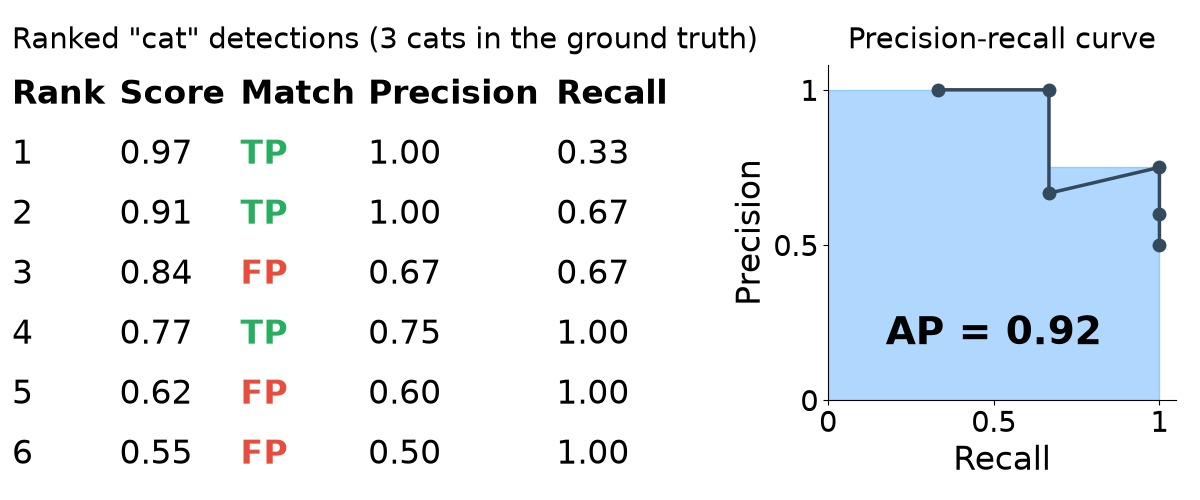
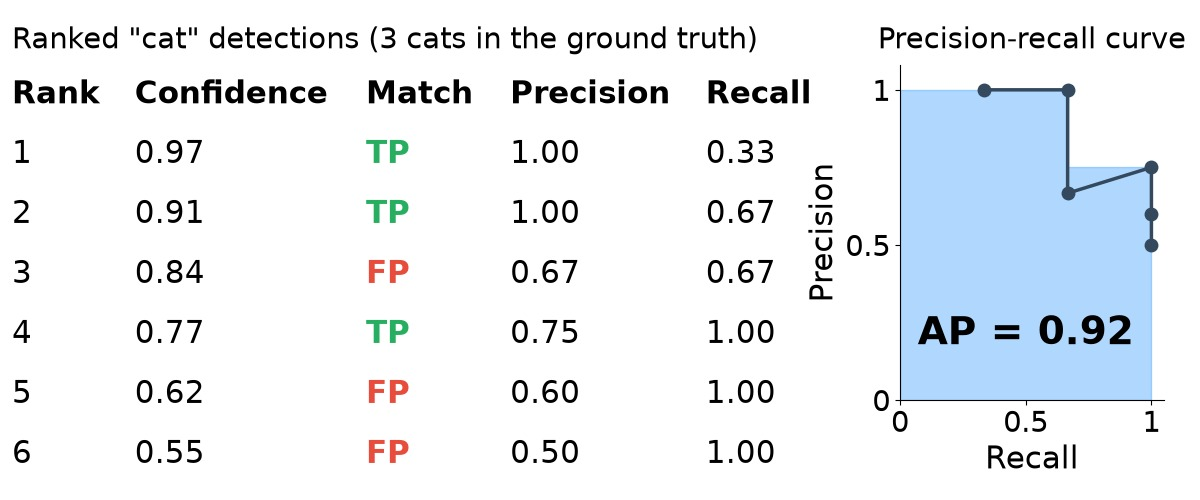
Clarify IoU roles, RetinaNet and DETR slides, and mAP averaging
- Explain why RetinaNet improves on SSD and YOLO for objects of different sizes
- Clarify IoU in training (anchor vs ground truth, threshold on loss terms)
- and in evaluation (predicted vs ground truth box)
- Say that mAP averages the AP of each class over all the classes
- Use confidence wording for NMS, YOLO and the AP table
- Mention that transformers and encoder/decoder are covered later for DETR
- Drop the transfer learning slide and the Mask R-CNN and DETR bullets of the detection training objective

diff --git a/slides/figures/plot_ap_example.py b/slides/figures/plot_ap_example.py
@@ -30,7 +30,7 @@ FALSE_POSITIVE_COLOR = "#e74c3c"
 CURVE_COLOR = "#34495e"
 AREA_COLOR = "#1e90ff"
 TITLE_FONT = 21
-TEXT_FONT = 24
+TEXT_FONT = 22
 TICK_FONT = 21
 
 # (confidence, is a true positive) of the detections of the class "cat", over a
@@ -87,7 +87,7 @@ def plot_ap(detections, n_ground_truth, output_path):
     ranked = sorted(detections, reverse=True)
 
     fig = plt.figure(figsize=(12, 5.0))
-    ax_table = fig.add_axes([0.01, 0.03, 0.56, 0.84])
+    ax_table = fig.add_axes([0.01, 0.03, 0.66, 0.84])
     ax_table.axis("off")
     ax_table.set_title(
         f"Ranked \"cat\" detections ({n_ground_truth} cats in the ground truth)",
@@ -95,8 +95,8 @@ def plot_ap(detections, n_ground_truth, output_path):
         loc="left",
         pad=12,
     )
-    columns = [0.0, 0.16, 0.34, 0.53, 0.81]
-    headers = ["Rank", "Score", "Match", "Precision", "Recall"]
+    columns = [0.0, 0.155, 0.447, 0.629, 0.876]
+    headers = ["Rank", "Confidence", "Match", "Precision", "Recall"]
     n_rows = len(ranked) + 1
     for x, header in zip(columns, headers):
         ax_table.text(x, 1 - 0.5 / n_rows, header, fontsize=TEXT_FONT, fontweight="bold", va="center")
@@ -110,7 +110,7 @@ def plot_ap(detections, n_ground_truth, output_path):
         ax_table.text(columns[3], y, f"{p:.2f}", fontsize=TEXT_FONT, va="center")
         ax_table.text(columns[4], y, f"{r:.2f}", fontsize=TEXT_FONT, va="center")
 
-    ax = fig.add_axes([0.69, 0.2, 0.29, 0.67])
+    ax = fig.add_axes([0.75, 0.2, 0.22, 0.67])
     steps_recall = np.concatenate([[0.0], recall])
     steps_envelope = np.concatenate([[envelope[0]], envelope])
     ax.fill_between(steps_recall, steps_envelope, step="pre", color=AREA_COLOR, alpha=0.35)

diff --git a/slides/convnets_detection/slides.md b/slides/convnets_detection/slides.md
@@ -14,7 +14,7 @@ Adapted from [Charles Ollion and Olivier Grisel](https://github.com/m2dsupsdlcla
 ---
 # Recap: Semantic Segmentation
 
-- Fully convolutional networks: one class score per pixel, for any image size
+- Fully convolutional networks: one class probability per pixel, for any image size
 - Transposed convolutions and skip connections (U-Net): recover fine spatial resolution
 - Strided operations downscale the feature maps (typically $32\times$): small objects get few cells
 
@@ -140,7 +140,7 @@ $C$ classes, $4$ output dimensions ($1$ box)
 
 --
 
-**Predict exactly $N$ objects:** predict $(N \times 4)$ coordinates and $(N \times K)$ class scores
+**Predict exactly $N$ objects:** predict $(N \times 4)$ coordinates and $(N \times K)$ class probabilities
 
 ---
 # Training Objective
@@ -195,7 +195,7 @@ Redmon, Joseph, et al. "You only look once: Unified, real-time object detection.
 --
 
 For each cell of the $S \times S$ predict:
-- $B$ **boxes** and **confidence scores** $\text{conf}$ ($5 \times B$ values) + **class probabilities** $p(c)$ for each of the $C$ classes
+- $B$ **boxes** and **box confidences** $\text{conf}$ ($5 \times B$ values) + **class probabilities** $p(c)$ for each of the $C$ classes
 
 ---
 # YOLO
@@ -204,7 +204,7 @@ For each cell of the $S \times S$ predict:
 ]
 
 For each cell of the $S \times S$ predict:
-- $B$ **boxes** and **confidence scores** $\text{conf}$ ($5 \times B$ values) + **class probabilities** $p(c)$ for each of the $C$ classes
+- $B$ **boxes** and **box confidences** $\text{conf}$ ($5 \times B$ values) + **class probabilities** $p(c)$ for each of the $C$ classes
 
 --
 
@@ -246,7 +246,7 @@ Illustration: the redundant boxes are simulated by jittering the ground truth bo
 
 Detectors output several overlapping boxes for the same object. For each class:
 
-1. Keep the box with the highest score
+1. Keep the box with the highest predicted confidence
 2. Suppress the boxes whose $\mathrm{IoU}$ with it is above a threshold (for instance $0.5$)
 3. Repeat with the remaining boxes
 
@@ -268,7 +268,7 @@ Anchors at one location of a feature map with stride $32$: $3$ scales and $3$ as
 --
 
 - At each location of the feature map: $k$ **anchor boxes** with predefined sizes and aspect ratios ($k = 9$ here)
-- The network predicts for each anchor a score and offsets that refine the box
+- The network predicts for each anchor an objectness score (object or background) and offsets that refine the box
 
 --
 
@@ -278,11 +278,11 @@ Anchors at one location of a feature map with stride $32$: $3$ scales and $3$ as
 # RetinaNet
 
 .center[
-          <img src="images/retinanet.png" style="width: 700px;" />
+          <img src="images/retinanet.png" style="width: 540px;" />
 ]
 
 .footnote.small[
-Lin, Tsung-Yi, et al. "Focal loss for dense object detection." ICCV 2017.
+Lin, Tsung-Yi, et al. "Focal loss for dense object detection." ICCV 2017. More information: [RetinaNet](https://arxiv.org/abs/1708.02002) and [Feature Pyramid Network](https://arxiv.org/abs/1612.03144) papers.
 ]
 
 --
@@ -293,7 +293,10 @@ Single stage detector with:
 
 --
 
-See the [RetinaNet](https://arxiv.org/abs/1708.02002) and [Feature Pyramid Network](https://arxiv.org/abs/1612.03144) papers for more information
+**Better than SSD and YOLO for objects of different sizes:**
+- YOLO (v1): one coarse grid, so small objects get few cells
+- SSD: several scales, but its early maps have weak semantic features
+- FPN: every scale gets strong semantic features
 
 ---
 # Box proposals
@@ -351,6 +354,10 @@ Carion, Nicolas, et al. "End-to-end object detection with transformers." ECCV 20
 - A fixed set of $N$ learned **object queries**: each one predicts a box and a class, or "no object"
 - No anchors and no NMS: the training loss discourages duplicate predictions
 
+--
+
+The **transformer** blocks and the encoder/decoder architecture are explained in future lectures
+
 ---
 # Training Objective for Detection
 
@@ -366,8 +373,6 @@ $$\mathcal{L} = \sum\_{i} \mathcal{L}\_{cls}(\hat{p}\_i, c\_i) + \lambda \sum\_{
 --
 
 - $\mathcal{L}\_{cls}$: cross-entropy (focal loss in RetinaNet), $\mathcal{L}\_{box}$: smooth L1
-- Mask R-CNN adds a per-pixel binary cross-entropy on the masks
-- DETR: one-to-one Hungarian matching instead of IoU thresholds
 - **Lower is better**
 
 ---
@@ -473,6 +478,10 @@ $$\mathrm{mAP} = \frac{1}{C} \sum\_{c=1}^{C} \mathrm{AP}\_c$$
 
 --
 
+- Compute the AP of each class $c$ separately, then average these $C$ values over all the classes
+
+--
+
 - **Higher is better**, from $0$ to $1$
 - COCO benchmark: AP averaged over $10$ IoU thresholds, from $0.5$ to $0.95$ (mAP@[0.5:0.95])
 - Also reported for small, medium and large objects: $\mathrm{AP}\_s$, $\mathrm{AP}\_m$, $\mathrm{AP}\_l$
@@ -538,33 +547,9 @@ Detectron2 https://github.com/facebookresearch/detectron2
 
 - **Detection**: one box and one class per object, from region proposals or from a dense grid of anchors
 - **Single-stage** (YOLO, RetinaNet) vs **two-stage** (Faster R-CNN): a trade-off between speed and accuracy
-- **IoU** matches predictions to the ground truth, in training and in evaluation. **NMS** removes duplicate boxes
+- **IoU** is used in training and in evaluation, with a different role:
+  - **Training**: computed between each anchor box (or region proposal) and the ground truth box, then compared to a threshold to select the loss terms: the box regression term is only included for the anchors above it
+  - **Evaluation**: computed between the predicted box (or mask) and the ground truth box (or mask): a detection above the threshold is a true positive
+- **NMS** removes redundant predicted boxes
 - **Instance segmentation**: detection plus a mask head (Mask R-CNN), **panoptic segmentation** adds the regions of the rest
 - **Evaluation**: AP per class averaged into mAP over IoU thresholds, higher is better
-
----
-# Transfer Learning for Vision
-
-### Pre-trained features as a basis
-
-- ImageNet: centered objects, very broad image domain
-- 1M+ labels and many different classes resulting in very **general** and **disentangling** representations
-- Better Networks (i.e. ResNet vs VGG) have **a huge impact**
-- Recent alternatives: self-supervised learning (more on this later)
-
---
-
-### Transfer learning and fine tuning
-
-Goal: make use of a smaller dataset but with richer labels:
-
-- object bounding boxes, object classes, instance masks...
-
---
-
-Steps:
-
-- Remove the last layer(s) of a model pretrained on ImageNet (for instance)
-- Add new layers that match the output shape of the new labels
-- **Transfer learning**: fit only the last layers to the new dataset
-- or **Fine tune** the whole architecture end-to-end

diff --git a/slides/convnets_segmentation/slides.md b/slides/convnets_segmentation/slides.md
@@ -318,7 +318,7 @@ Ronneberger, Olaf et al., "U-Net: Convolutional Networks for Biomedical Image Se
 ---
 # Training Objective
 
-For each pixel $(i, j)$, the network outputs one score (logit) $z\_{ij,c}$ per class. A **softmax** turns them into probabilities:
+For each pixel $(i, j)$, the network outputs one logit $z\_{ij,c}$ per class. A **softmax** turns them into probabilities:
 
 $$\hat{y}\_{ij,c} = \frac{e^{z\_{ij,c}}}{\sum\_{c'=1}^{C} e^{z\_{ij,c'}}}$$
 
